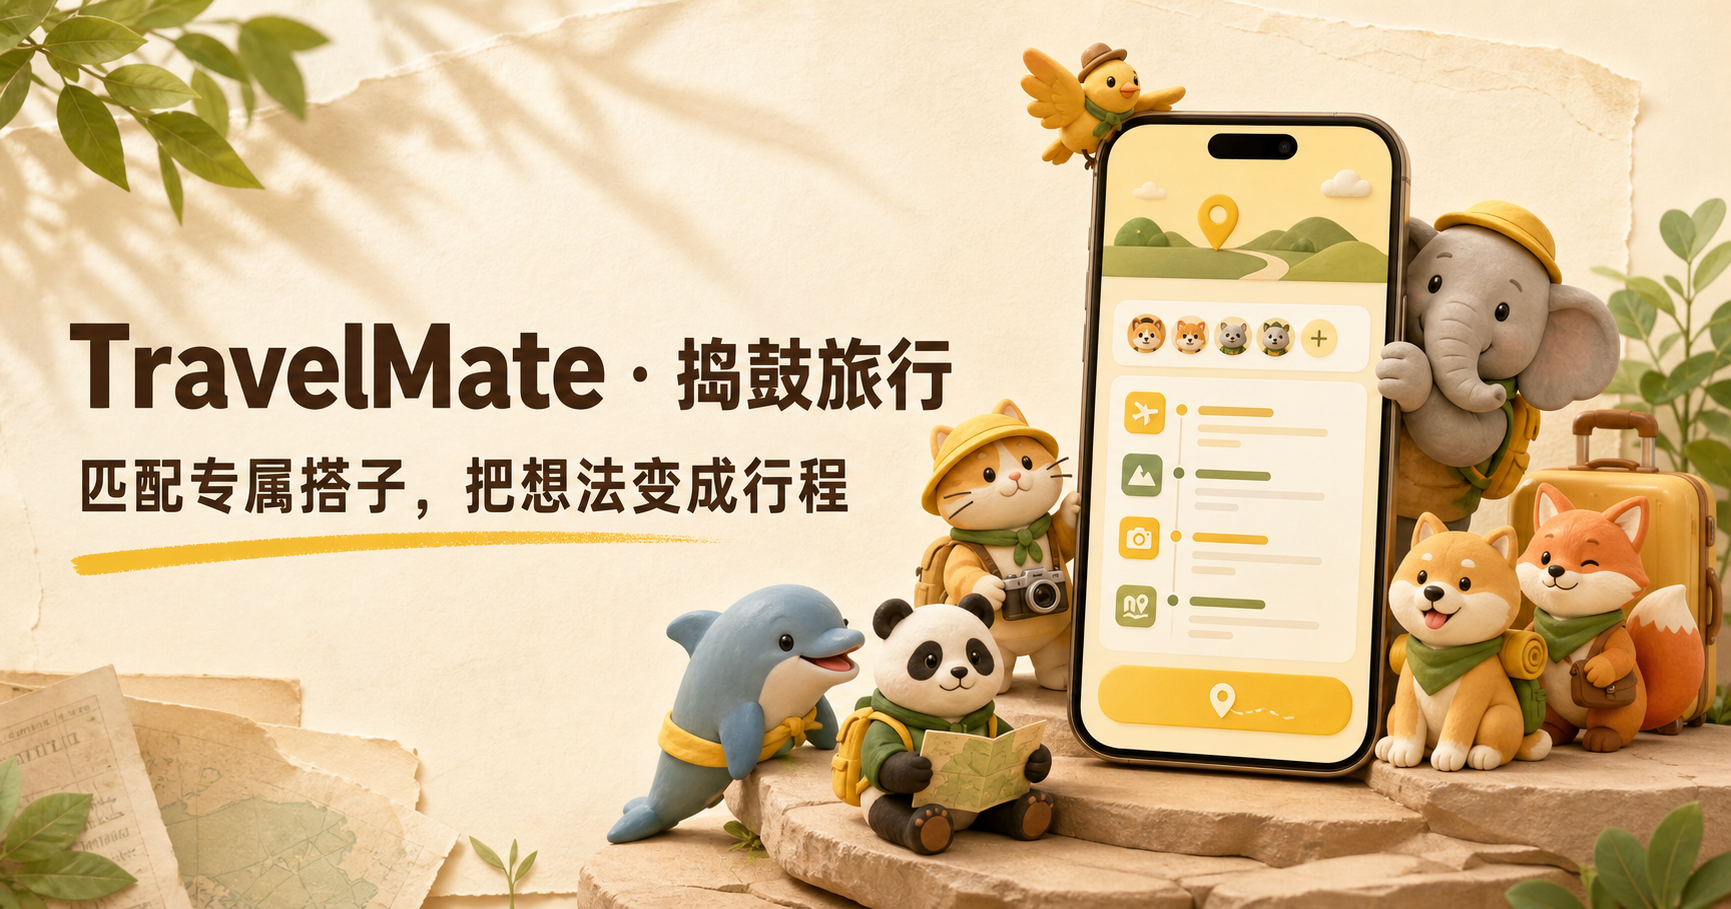
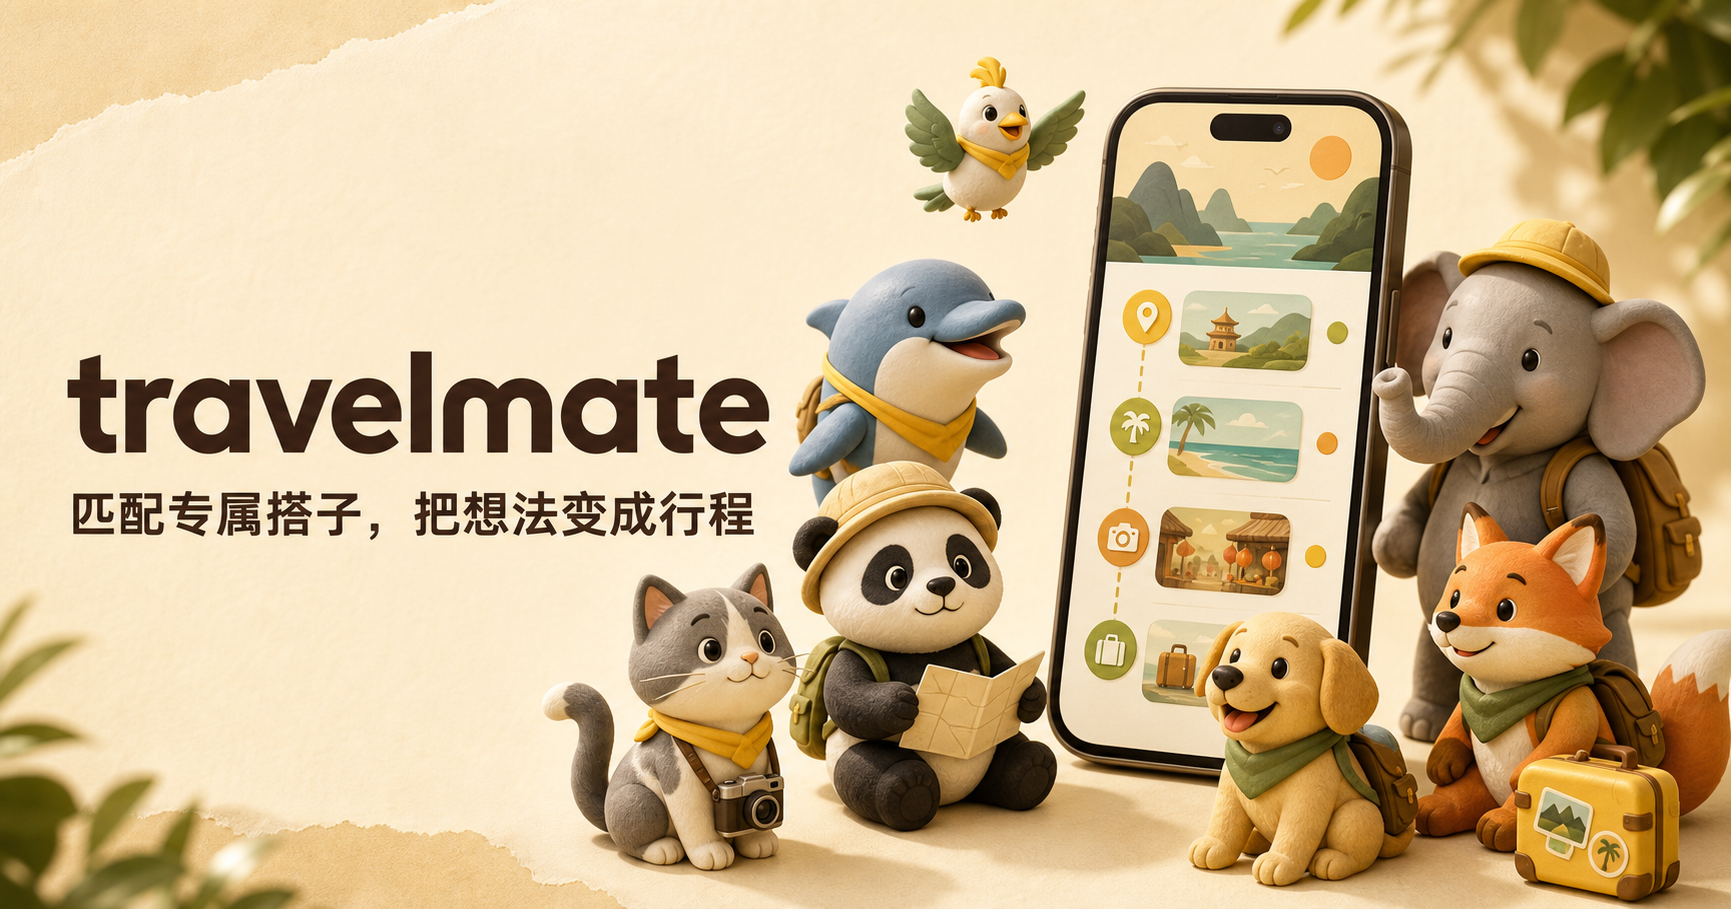
Fix private preview assets and rename brand to travelmate

diff --git a/src/routes/__root.tsx b/src/routes/__root.tsx
@@ -9,7 +9,7 @@ import {
 } from "@tanstack/react-router";
 import { useEffect, type ReactNode } from "react";
 
-import appCss from "../styles.css?url";
+import "../styles.css";
 import { reportLovableError } from "../lib/lovable-error-reporting";
 
 function NotFoundComponent() {
@@ -80,14 +80,14 @@ export const Route = createRootRouteWithContext<{ queryClient: QueryClient }>()(
         name: "viewport",
         content: "width=device-width, initial-scale=1, viewport-fit=cover",
       },
-      { title: "TravelMate 捣鼓旅行" },
+      { title: "travelmate" },
       {
         name: "description",
         content: "匹配专属旅行搭子，把群聊、攻略和订单整理成可执行的同行旅程。",
       },
-      { name: "author", content: "TravelMate" },
+      { name: "author", content: "travelmate" },
       { name: "theme-color", content: "#f4c84e" },
-      { property: "og:title", content: "TravelMate 捣鼓旅行" },
+      { property: "og:title", content: "travelmate" },
       {
         property: "og:description",
         content: "5 道偏好测试匹配旅行搭子，把零散信息变成清晰行程。",
@@ -106,10 +106,6 @@ export const Route = createRootRouteWithContext<{ queryClient: QueryClient }>()(
         rel: "stylesheet",
         href: "https://fonts.googleapis.com/css2?family=Noto+Sans+SC:wght@400;500;700&family=Noto+Color+Emoji&display=swap",
       },
-      {
-        rel: "stylesheet",
-        href: appCss,
-      },
       { rel: "icon", href: "/favicon.ico", type: "image/x-icon" },
     ],
   }),
@@ -127,7 +123,7 @@ function RootShell({ children }: { children: ReactNode }) {
       </head>
       <body>
         {children}
-        <Scripts />
+        {typeof window === "undefined" ? <Scripts /> : null}
       </body>
     </html>
   );

diff --git a/src/routes/index.tsx b/src/routes/index.tsx
@@ -9,13 +9,13 @@ import type { TabKey } from "@/components/tm/MiniShell";
 export const Route = createFileRoute("/")({
   head: () => ({
     meta: [
-      { title: "TravelMate 捣鼓旅行 · 微信小程序原型" },
+      { title: "travelmate · 微信小程序原型" },
       {
         name: "description",
         content:
-          "TravelMate 捣鼓旅行小程序高保真原型：5 题旅行偏好测试、7 类动物搭子匹配、行程/资料/记录与 AA 结算。",
+          "travelmate 小程序高保真原型：5 题旅行偏好测试、7 类动物搭子匹配、行程/资料/记录与 AA 结算。",
       },
-      { property: "og:title", content: "TravelMate 捣鼓旅行 · 微信小程序原型" },
+      { property: "og:title", content: "travelmate · 微信小程序原型" },
       {
         property: "og:description",
         content: "5 题偏好测试匹配旅行搭子，群聊结论一键变成可执行行程。",
@@ -40,7 +40,7 @@ function Index() {
     <main className="prototype-stage flex min-h-screen items-center justify-center bg-surface-sunk px-4 py-8">
       <div className="prototype-wrap flex flex-col items-center gap-5">
         <header className="prototype-caption text-center">
-          <h1 className="text-[20px] font-bold text-foreground">TravelMate · 捣鼓旅行</h1>
+          <h1 className="text-[20px] font-bold text-foreground">travelmate</h1>
           <p className="mt-1 text-[12px] text-muted-foreground">
             微信小程序 V1.1 交互原型 · 首次进入偏好测试与搭子匹配
           </p>

diff --git a/src/components/tm/Onboarding.tsx b/src/components/tm/Onboarding.tsx
@@ -34,10 +34,10 @@ export function Onboarding({
 
   if (step === "welcome") {
     return (
-      <MiniShell title="TravelMate" showTabBar={false}>
+      <MiniShell title="travelmate" showTabBar={false}>
         <div className="flex h-full flex-col justify-between px-6 pb-8 pt-10">
           <div className="text-center">
-            <p className="text-[13px] font-medium tracking-[0.3em] text-muted-foreground">捣鼓旅行</p>
+            <p className="text-[13px] font-medium tracking-[0.3em] text-muted-foreground">travelmate</p>
             <h1 className="mt-3 text-[26px] font-bold leading-snug text-foreground">
               和搭子一起
               <br />
@@ -159,7 +159,7 @@ export function Onboarding({
             </p>
           </Card>
           <Card className="mt-3">
-            <p className="text-[12px] font-semibold text-foreground">在 TravelMate 里，我会这样帮你</p>
+            <p className="text-[12px] font-semibold text-foreground">在 travelmate 里，我会这样帮你</p>
             <ul className="mt-2 space-y-1.5 text-[12px] text-muted-foreground">
               <li>· {companion.behavior}</li>
               <li>· 记住你的节奏偏好，下次直接套用</li>

diff --git a/vite.config.ts b/vite.config.ts
@@ -7,9 +7,26 @@
 import { defineConfig } from "@lovable.dev/vite-tanstack-config";
 
 export default defineConfig({
+  vite: {
+    build: {
+      rollupOptions: {
+        output: {
+          inlineDynamicImports: true,
+        },
+      },
+    },
+  },
   tanstackStart: {
+    router: {
+      autoCodeSplitting: false,
+    },
     // Redirect TanStack Start's bundled server entry to src/server.ts (our SSR error wrapper).
     // nitro/vite builds from this
-    server: { entry: "server" },
+    server: {
+      entry: "server",
+      build: {
+        inlineCss: true,
+      },
+    },
   },
 });

diff --git a/src/components/tm/MineTab.tsx b/src/components/tm/MineTab.tsx
@@ -60,7 +60,7 @@ export function MineTab({
           ))}
         </div>
         <p className="pt-2 text-center text-[11px] text-muted-foreground/70">
-          TravelMate · 捣鼓旅行 V1.1 原型
+          travelmate V1.1 原型
         </p>
       </div>
     </MiniShell>
